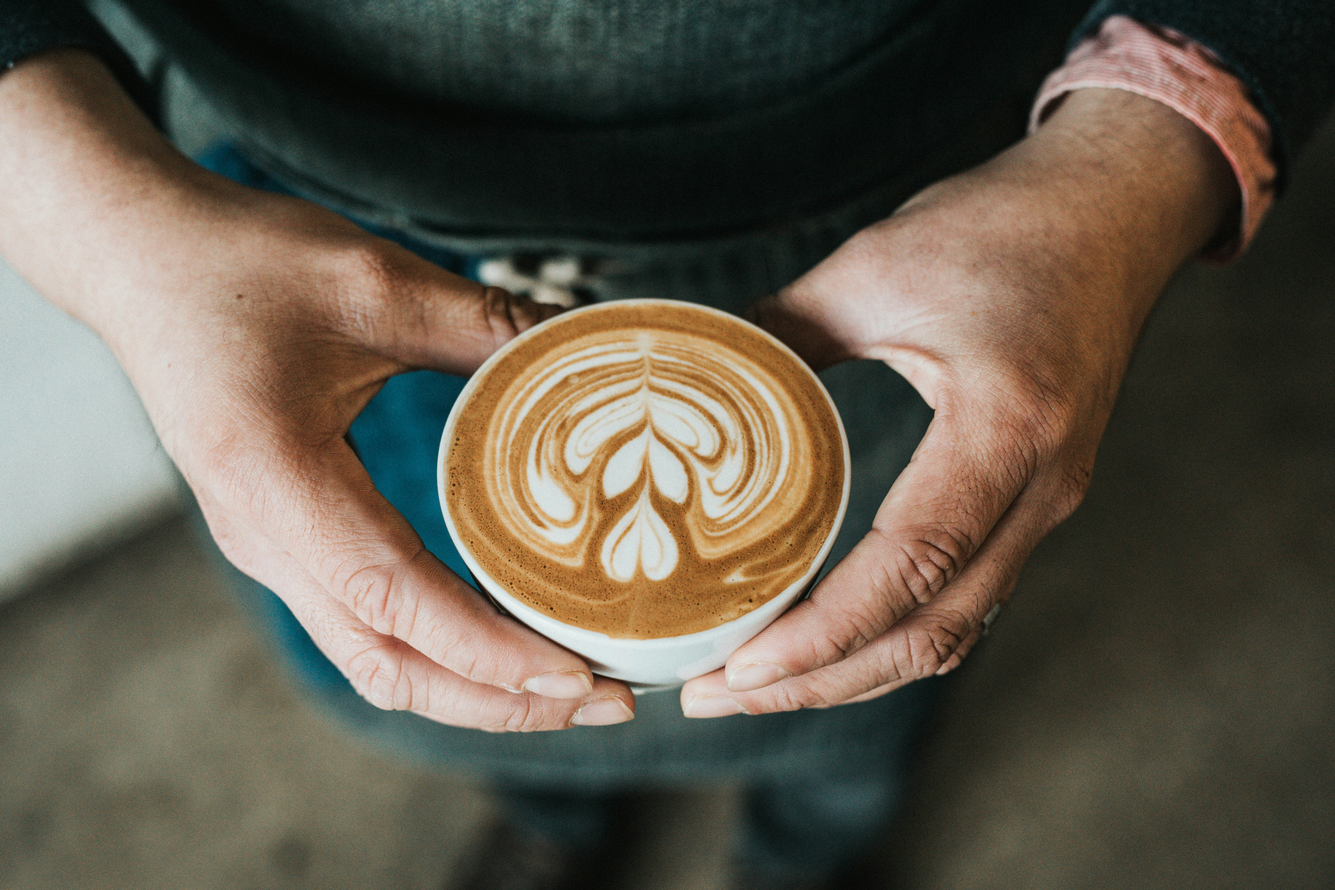
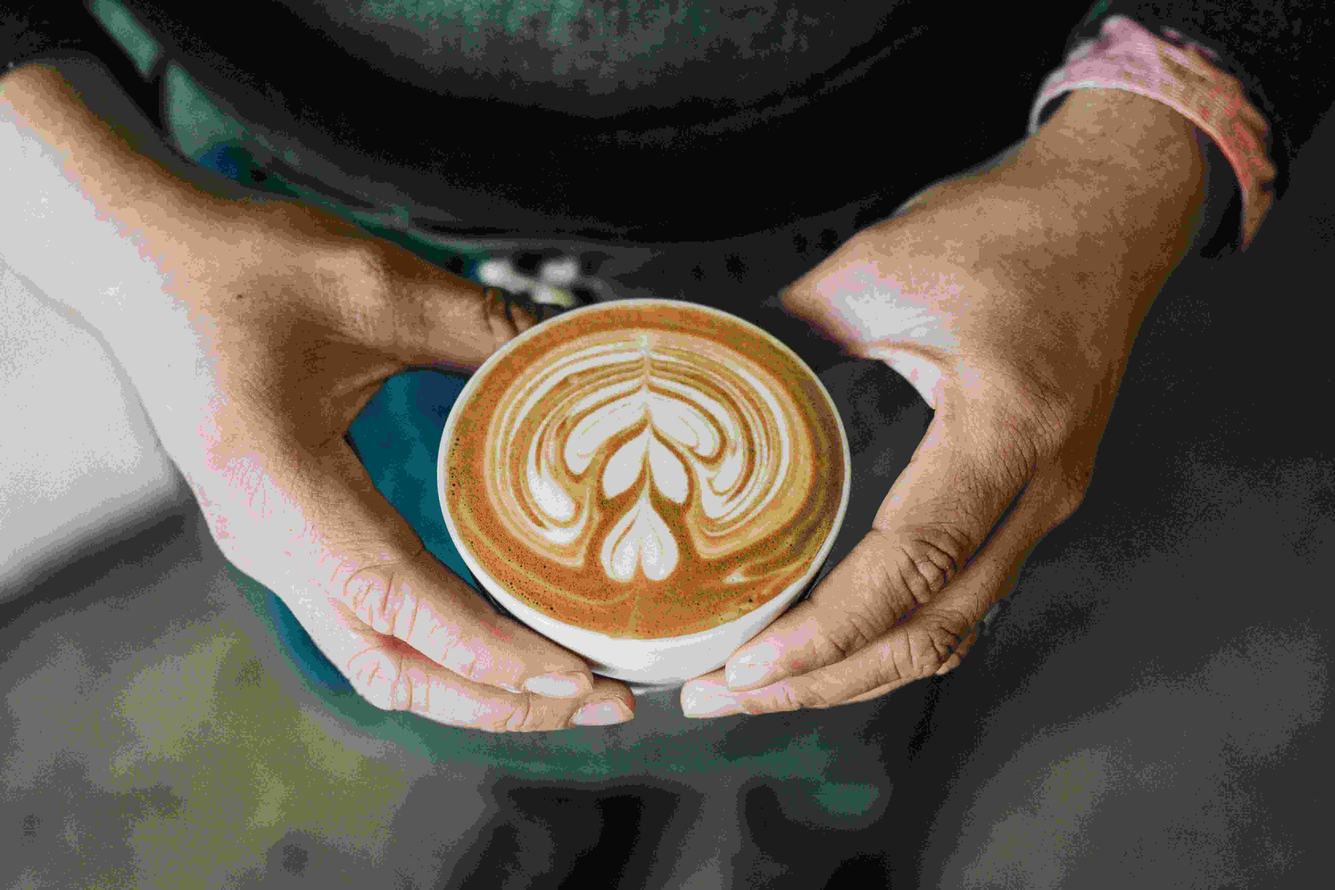
fotoğraflar optimize edildi

diff --git a/src/pages/MenuPage.jsx b/src/pages/MenuPage.jsx
@@ -1,9 +1,9 @@
 import React, { useState, useEffect } from 'react';
-// import { menuCategories } from '../data/menuData'; // Bu satırı kaldırıyoruz
+
 import { motion } from 'framer-motion';
 import { containerVariants, itemVariants, cardVariants, categoryVariants, titleVariants } from '../animations/commonVariants';
-import { db } from '../firebaseConfig'; // Firebase konfigürasyonunu import ediyoruz
-import { collection, getDocs } from 'firebase/firestore'; // Firestore fonksiyonlarını import ediyoruz
+import { db } from '../firebaseConfig'; 
+import { collection, getDocs } from 'firebase/firestore'; 
 
 function MenuPage() {
   const [menuCategories, setMenuCategories] = useState([]);
